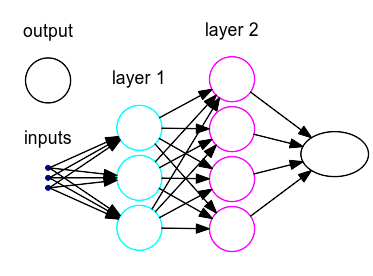
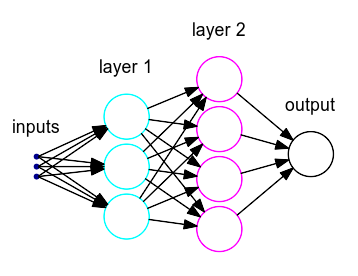
fixed up output layer

diff --git a/Wi18_content/DSMCER/slidegen/dotgen.py b/Wi18_content/DSMCER/slidegen/dotgen.py
@@ -1,7 +1,7 @@
 x = ["x1", "x2", "x3"]
 l1 = ["l1_1", "l1_2", "l1_3"]
 l2 = ["l2_1", "l2_2", "l2_3", "l2_4"]
-o = ["output"]
+o = ["o1"]
 
 preamble = """
 digraph G {
